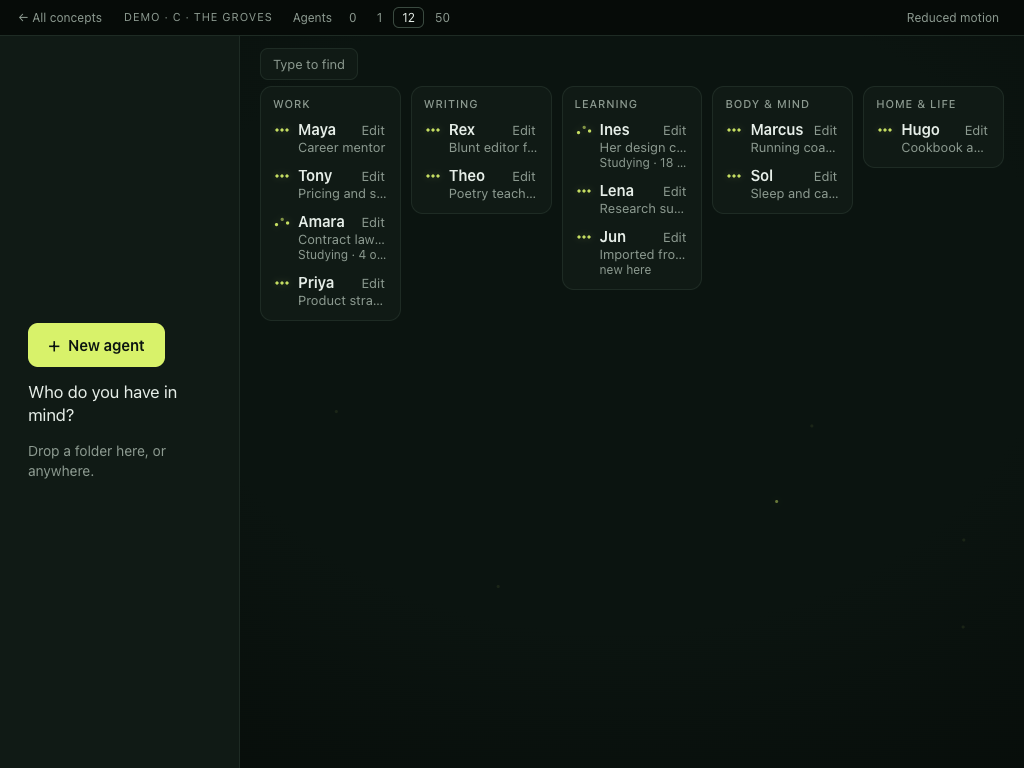
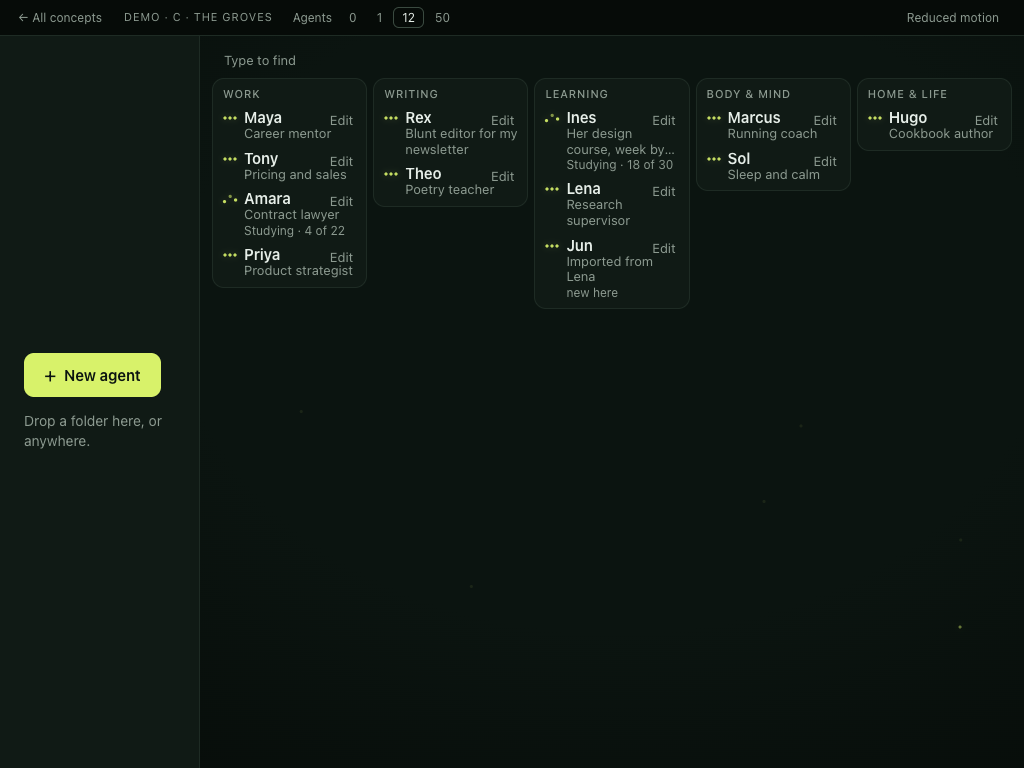
GLADE-HOME-V2: Eraser's 5 cuts (A1, C1-C4) + build-notes
A1: delete A's 'They answer' chat flash. C1: roles and names wrap to 2
lines, door 240->200px, tighter grove spacing so C fits at 50 with no
scroll. C2: planted line moved out of the New agent button into a plain
<p>. C3: drop the door's question on Home. C4: chip loses its box.
Checked at 0/1/12/50, 1024x768 (.tmp-test/cuts.cjs + run.cjs).

diff --git a/updates/2026-11-26 GLADE-HOME-V2/concept-c-groves.html b/updates/2026-11-26 GLADE-HOME-V2/concept-c-groves.html
@@ -58,33 +58,34 @@ button{background:none;border:0;padding:0;margin:0;cursor:pointer;text-align:lef
 .sr{position:absolute;width:1px;height:1px;overflow:hidden;clip:rect(0 0 0 0);white-space:nowrap}
 .rm *{transition:none!important;animation:none!important}
 /* ── C · The Groves ──────────────────────────────────────────────── */
-.c{display:grid;grid-template-columns:240px 1fr}
-.door{border-width:0 1px 0 0;height:100%;display:flex;flex-direction:column;align-items:flex-start;justify-content:center;gap:14px;padding:32px 28px;text-align:left}
+.c{display:grid;grid-template-columns:200px 1fr}
+/* The panel is the door (it lights on drop, empty space opens New agent); the button is pill + hint; Planted is plain text under it. */
+.door{border-width:0 1px 0 0;height:100%;display:flex;flex-direction:column;align-items:stretch;justify-content:center;gap:14px;padding:32px 24px;text-align:left;cursor:pointer}
 .door:hover{border-color:var(--line-on)}
+.door .dbtn{display:flex;flex-direction:column;align-items:flex-start;gap:14px;border-radius:10px}
 .door .pill{background:var(--fly);color:var(--field);font-weight:600;border-radius:10px;padding:0 20px;height:44px;display:inline-flex;align-items:center;gap:8px}
 .door .pill .plus{font-size:20px;font-weight:400;line-height:1}
 .door:hover .pill{filter:brightness(1.07)}
-.door .ask{font-size:17px;line-height:1.35}
 .door .hint{font-size:14px;color:var(--quiet);line-height:1.4}
-.door .planted{font-size:14px;line-height:1.4;color:var(--text);border-top:1px solid var(--line);padding-top:14px;margin-top:4px}
+.door .planted{font-size:14px;line-height:1.4;color:var(--text);border-top:1px solid var(--line);padding-top:14px;margin:4px 0 0;cursor:default}
 .door.drop-on{box-shadow:inset 0 0 0 1px var(--fly)!important}
-.groves{padding:12px 20px 16px;min-width:0;overflow:auto}
-.c .chip{display:inline-flex;margin:0 0 6px;border-radius:8px}
-.cols{display:flex;gap:10px;align-items:flex-start}
-.gcol{flex:1 1 0;max-width:200px;min-width:0;display:flex;flex-direction:column;gap:10px}
-.grove{border-radius:12px;padding:6px 4px 6px}
+.groves{padding:8px 12px 10px;min-width:0;overflow:auto}
+.c .chip{display:inline-flex;margin:0 0 2px;border-radius:8px}
+.cols{display:flex;gap:6px;align-items:flex-start}
+.gcol{flex:1 1 0;max-width:200px;min-width:0;display:flex;flex-direction:column;gap:6px}
+.grove{border-radius:12px;padding:4px 2px 4px}
 .grove h2{font-size:11px;letter-spacing:.08em;text-transform:uppercase;color:var(--quiet);font-weight:500;margin:0;padding:4px 8px 4px;transition:opacity .18s ease}
 .gr{position:relative;display:flex;align-items:flex-start;border-radius:8px;border:1px solid transparent;transition:opacity .18s ease}
 .gr:hover{border-color:var(--line-on)}
 .dim{opacity:.25}
-.gr .open{flex:1;min-width:0;display:flex;gap:8px;align-items:flex-start;padding:4px 8px 5px 8px;border-radius:8px}
+.gr .open{flex:1;min-width:0;display:flex;gap:6px;align-items:flex-start;padding:2px 6px 3px 6px;border-radius:8px}
 .gr .open .mark{margin-top:5px}
 .gr .tx{flex:1;min-width:0}
-.gr .nm{font-weight:600;line-height:1.25}
-.gr .rl{font-size:13px;color:var(--quiet);line-height:1.25}
+.gr .nm{font-weight:600;line-height:1.2}
+.gr .rl{font-size:13px;color:var(--quiet);line-height:1.2;white-space:normal;overflow:hidden;display:-webkit-box;-webkit-line-clamp:2;-webkit-box-orient:vertical}
 .gr .st{font-size:12px;color:var(--quiet);line-height:1.25}
 /* Edit sits on the name line only (always visible), so the role line below gets the row's full width. */
-.gr .nm{padding-right:34px}
+.gr .nm{padding-right:34px;white-space:normal;overflow:hidden;display:-webkit-box;-webkit-line-clamp:2;-webkit-box-orient:vertical}
 .gr .ed{position:absolute;top:2px;right:2px;font-size:13px;color:var(--quiet);padding:4px 8px;border-radius:6px}
 .gr .ed:hover{color:var(--text)}
 </style>
@@ -99,14 +100,15 @@ button{background:none;border:0;padding:0;margin:0;cursor:pointer;text-align:lef
 <canvas id="sky" aria-hidden="true"></canvas>
 
 <main id="home" class="view c">
-  <button class="door solid" id="door">
-    <span class="pill"><span class="plus" aria-hidden="true">+</span>New agent</span>
-    <span class="ask">Who do you have in mind?</span>
-    <span class="hint">Drop a folder here, or anywhere.</span>
-    <span class="planted" id="planted" hidden></span>
-  </button>
+  <div class="door solid" id="doorpanel">
+    <button class="dbtn" id="door">
+      <span class="pill"><span class="plus" aria-hidden="true">+</span>New agent</span>
+      <span class="hint">Drop a folder here, or anywhere.</span>
+    </button>
+    <p class="planted" id="planted" hidden></p>
+  </div>
   <section class="groves" id="groves" aria-label="Your agents, by what they help with">
-    <div class="chip solid" id="chip" aria-hidden="true"></div>
+    <div class="chip" id="chip" aria-hidden="true"></div>
     <div class="cols" id="cols"></div>
   </section>
 </main>
@@ -125,7 +127,7 @@ const Concept = {
     let h = `<div class="grove solid" role="group" aria-label="${esc(g)}"><h2>${esc(g)}</h2>`;
     for (const a of list) {
       const st = a.state === 'ready' ? '' : `<span class="st ell">${words(a)}</span>`;
-      h += `<div class="gr" data-name="${esc(a.name)}"><button class="open" aria-label="Chat with ${esc(a.name)}, ${esc(a.role)}, ${words(a)}">${mark(a.state)}<span class="tx"><span class="nm ell">${esc(a.name)}</span><span class="rl ell">${esc(a.role)}</span>${st}</span></button><button class="ed" aria-label="Edit ${esc(a.name)}">Edit</button></div>`;
+      h += `<div class="gr" data-name="${esc(a.name)}"><button class="open" aria-label="Chat with ${esc(a.name)}, ${esc(a.role)}, ${words(a)}">${mark(a.state)}<span class="tx"><span class="nm">${esc(a.name)}</span><span class="rl">${esc(a.role)}</span>${st}</span></button><button class="ed" aria-label="Edit ${esc(a.name)}">Edit</button></div>`;
     }
     return h + `</div>`;
   },
@@ -198,7 +200,7 @@ const Concept = {
     const el = rowOf(a.name); if (el) el.querySelector('.open').focus();
   },
   chip() { return $('#chip'); },
-  door() { return $('#door'); },
+  door() { return $('#doorpanel'); },
   flyRegion() { return G.agents.length >= 50 ? null : $('#groves').getBoundingClientRect(); },
   editRows(a) { return `<dt>Grove</dt><dd>${esc(a.grove)}</dd>`; }
 };
@@ -359,7 +361,7 @@ const Sky = {
     this.pts = []; this.fl = null;
     const R = G.screen ? null : Concept.flyRegion();
     if (R && R.width > 40 && R.height > 40) {
-      const blocks = [...document.querySelectorAll('#home .solid, .demo')].filter(e => e.offsetParent || e.classList.contains('demo')).map(e => e.getBoundingClientRect());
+      const blocks = [...document.querySelectorAll('#home .solid, #chip, .demo')].filter(e => e.offsetParent || e.classList.contains('demo')).map(e => e.getBoundingClientRect());
       let s = 7; const rnd = () => ((s = (s * 16807) % 2147483647) / 2147483647);
       for (let tries = 0; tries < 600 && this.pts.length < 6; tries++) {
         const x = R.left + rnd() * R.width, y = R.top + rnd() * R.height;
@@ -432,7 +434,7 @@ addEventListener('drop', e => {
   $('#rmb').onclick = () => { G.rm = !G.rm; document.documentElement.classList.toggle('rm', G.rm); $('#rmb').setAttribute('aria-pressed', String(G.rm)); Sky.build(); };
   document.querySelectorAll('.demo [data-n]').forEach(b => b.onclick = () => G.setN(+b.dataset.n));
   $('#back').onclick = () => G.home();
-  Concept.door().onclick = () => G.open('new', null);
+  Concept.door().onclick = e => { if (!e.target.closest('#planted')) G.open('new', null); };
   addEventListener('resize', () => Sky.build());
   const n = +p.get('n');
   G.setN(p.has('n') && [0, 1, 12, 50].includes(n) ? n : 12);

diff --git a/updates/2026-11-26 GLADE-HOME-V2/concept-a-path.html b/updates/2026-11-26 GLADE-HOME-V2/concept-a-path.html
@@ -173,13 +173,6 @@ const Concept = {
   },
   restoreFocus() { const r = this.rowOf(S.sel); if (r) { r.focus(); r.scrollIntoView({ block: 'nearest' }); } },
   afterKeep(a) { S.sel = a.name; this.render(); this.restoreFocus(); },
-  afterChat() {
-    // Quiet magic 1 · They answer: one flash on the chat header mark, after the screen has changed.
-    const m = $('#bigmark'); if (!m) return;
-    const off = 'drop-shadow(0 0 0px rgba(216,242,106,0))', on = 'drop-shadow(0 0 8px rgba(216,242,106,.75))';
-    if (G.rm) m.animate([{ filter: on }, { filter: on }], { duration: 1000 });
-    else m.animate([{ filter: off, opacity: .75, easing: 'ease-out' }, { filter: on, opacity: 1, offset: 120 / 1020, easing: 'ease-in' }, { filter: off, opacity: 1 }], { duration: 1020 });
-  },
   chip() { return $('#chip'); },
   door() { return $('#door'); },
   flyRegion() { return $('#clearing').getBoundingClientRect(); },

diff --git a/updates/2026-11-26 GLADE-HOME-V2/build-notes.md b/updates/2026-11-26 GLADE-HOME-V2/build-notes.md
@@ -55,11 +55,19 @@ Chrome via Playwright, 1024×768, at 0, 1, 12 and 50 agents in each concept (scr
 - **Esc on a stub screen = Back to Home.**
 - **0 agents:** the New agent screen *is* Home, with no Back.
 - **Demo bar** also has `0` and a `Reduced motion` toggle (it also follows the OS setting).
-- **A's "They answer" flash** uses the Web Animations API, and plays after the chat screen is shown.
+- ~~**A's "They answer" flash**~~ removed by cut A1.
 - **Folder drop lights the door in all three** (concepts.md spells it out for A only).
 - **B guide words** use the first word of the name (`Untitled sketch` files under U). The third line on a card shows only for a state other than Ready, or for `today` / `yesterday`.
 - **C** shows a state line only when it isn't Ready. `Unsorted` sits under the shortest column. `Edit` sits on the name line (see fix 3).
 - **Fireflies** in B and C are off at 50, as the concept says. A keeps a few in the clearing.
 
 ## Eraser cuts
-*(filled in after eraser-review.md comes back)*
+From `eraser-review.md` (RETURNED, 5 cuts; B had none). All five are made. Checked in Chrome at 1024×768 with 0, 1, 12 and 50 agents: `node .tmp-test/cuts.cjs` covers the cuts, and `node .tmp-test/run.cjs` (the full click-through) still passes for all three concepts. Screenshots are in `.tmp-test/shots/cuts-c-*.png`.
+
+| ID | Page | What changed | Checked |
+|---|---|---|---|
+| **A1** | A · Path | Deleted `Concept.afterChat`, the "They answer" flash. The core's `if (kind === 'chat' && Concept.afterChat)` line stays as it was. `index.html` never mentioned the flash, so it's unchanged. A's only magic now is the trailhead lighting on a folder drop. | No animation on `#bigmark` when Chat opens by mouse, by `Return`, or with `?rm=1`. |
+| **C1** | C · Groves | Roles wrap to 2 lines (`.gr .rl` line-clamp 2, no `ell`). The door is **200 px** (it was 240). Two changes beyond the review: **(a)** names wrap to 2 lines as well, because with Edit on the name line, `Untitled sketch` was still cut to `Untitl…` at 200 px. **(b)** Spacing in the groves is tighter (groves padding 8/12, gaps 10→6, grove padding 4/2, row padding 2/3, line-height 1.25→1.2), because with only the wrap, C at 50 overflowed by about 99 px (the Learning column is 12 people, most on 2 lines). | At 50 there's no scroll, before or after Nell. `Contract lawyer`, `Startup board advisor`, `Imported from Lena` and `Untitled sketch` show in full. The door is 200 px at every count. Only Ines's role (`Her design course, week by…`) still needs a 3rd line, so it's clamped. Her button's screen-reader name has the full role. |
+| **C2** | C · Groves | The door is now `<div class="door solid" id="doorpanel">`. Inside it is `<button id="door">` (the pill and the hint) and, under the button, `<p id="planted">`. The whole panel still lights on a folder drop. Clicking empty space on the panel opens New agent. Clicking the planted line does nothing (`cursor: default`). | After Keep, the planted line shows, clicking it stays on Home, and the button's name is `New agent Drop a folder here, or anywhere.` with no Nell in it. |
+| **C3** | C · Groves | Removed `Who do you have in mind?` from the Home door. | Not on Home at 1, 12 or 50. Still on the New agent screen and at 0. |
+| **C4** | C · Groves | Removed `solid` from `#chip`: no panel and no border. C's fireflies now keep clear of the chip (`#chip` was added to their keep-out list, since it no longer counts as a panel). | The computed border is 0 and the background is transparent at 1, 12 and 50. |
